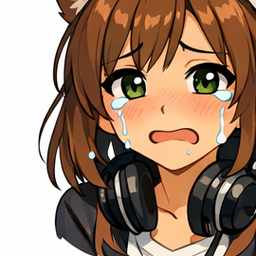
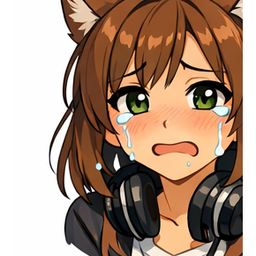
fix: cleaner kitsune crops, longer judge messages (2-4 sentences each)

diff --git a/packages/backend/src/judge.ts b/packages/backend/src/judge.ts
@@ -67,8 +67,9 @@ const FORMAT_INSTRUCTIONS = `FORMATO: Responda APENAS com um JSON array de objet
 Moods disponiveis: "shocked", "disgusted", "laughing", "judging", "impressed", "crying", "angry", "confused", "sarcastic", "dead"
 
 REGRAS DE FORMATO:
-- 8-12 mensagens no total
-- Cada mensagem deve ser CURTA: 1 frase apenas, maximo 2 frases curtas
+- 5-7 mensagens no total
+- Cada mensagem tem 2-4 frases, como um paragrafo curto de whatsapp
+- Desenvolva a ideia em cada mensagem, nao seja telegráfico demais
 - Varie os moods conforme o tom da mensagem
 - Comece com "shocked" ou "confused" ao ver o perfil
 - Termine com "dead" ou "laughing" no veredito final
